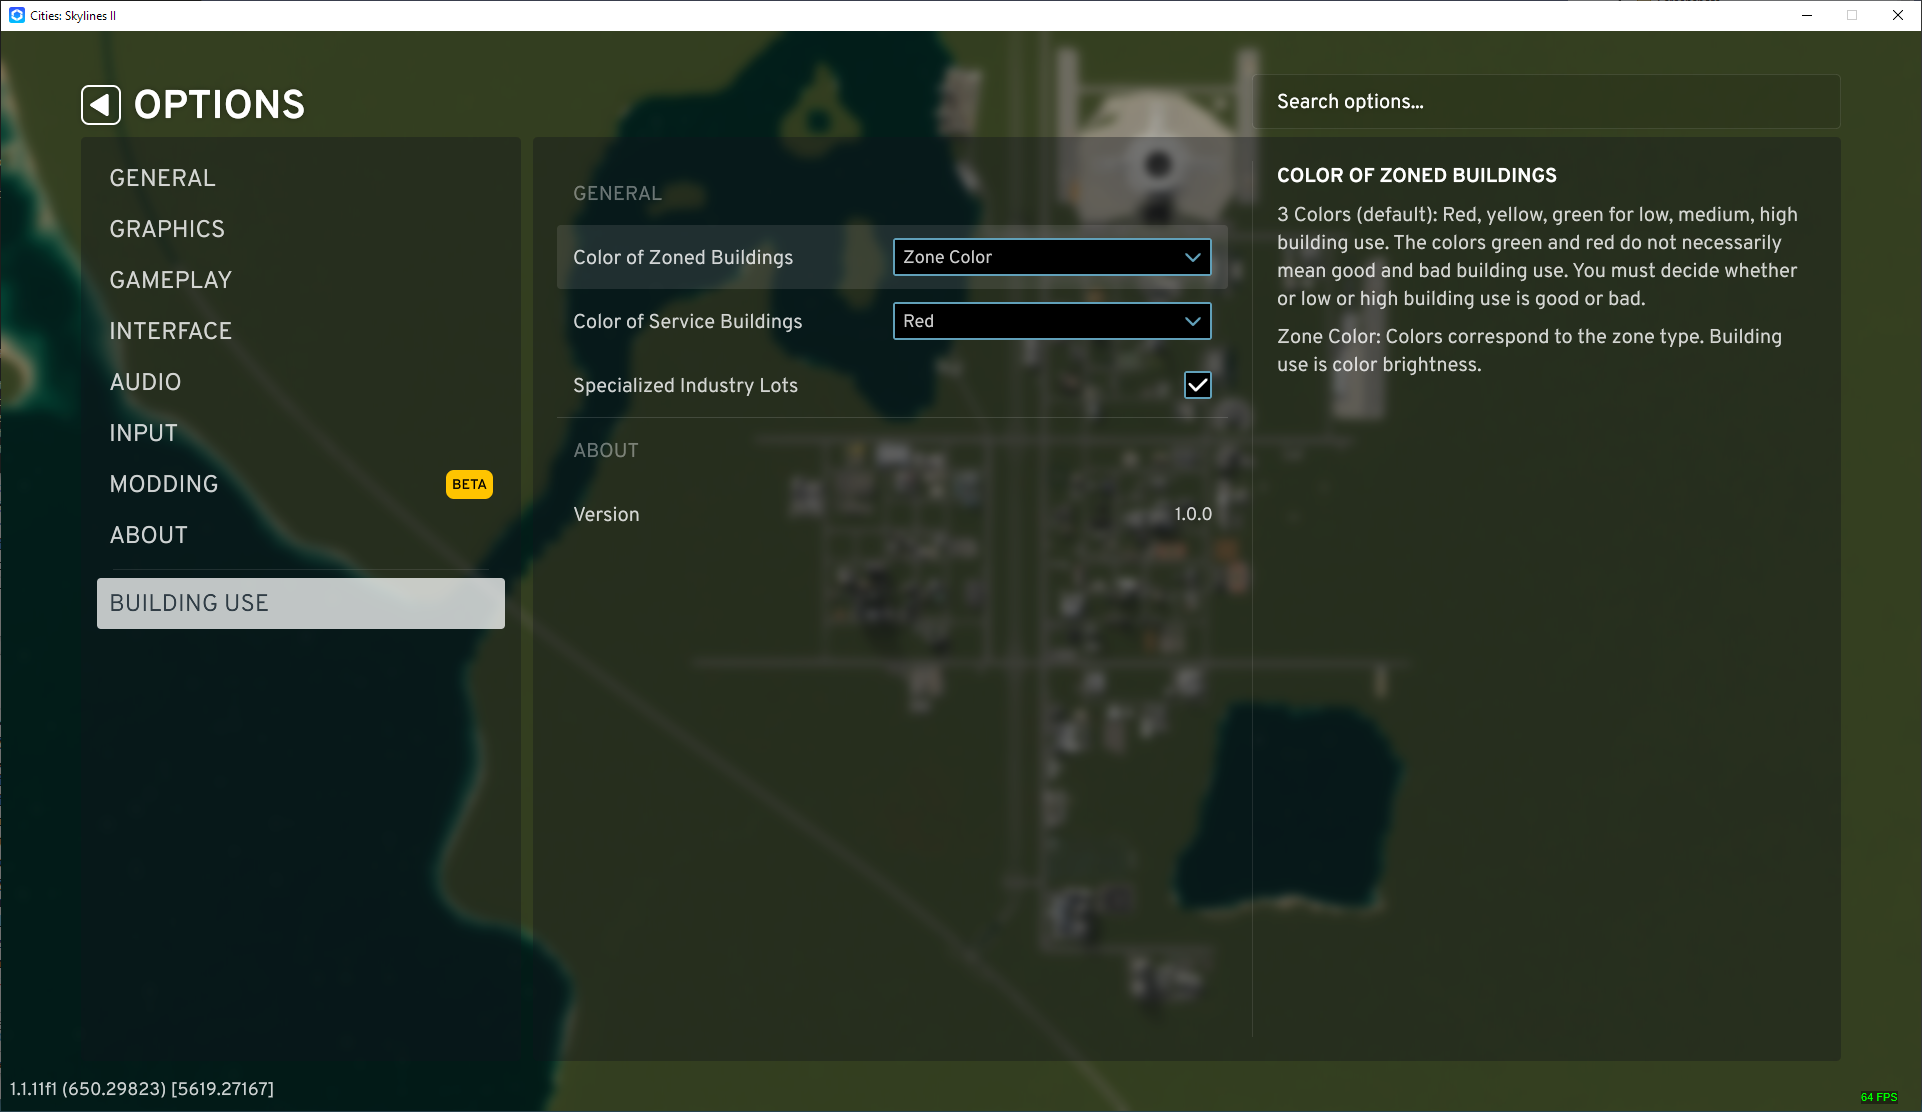
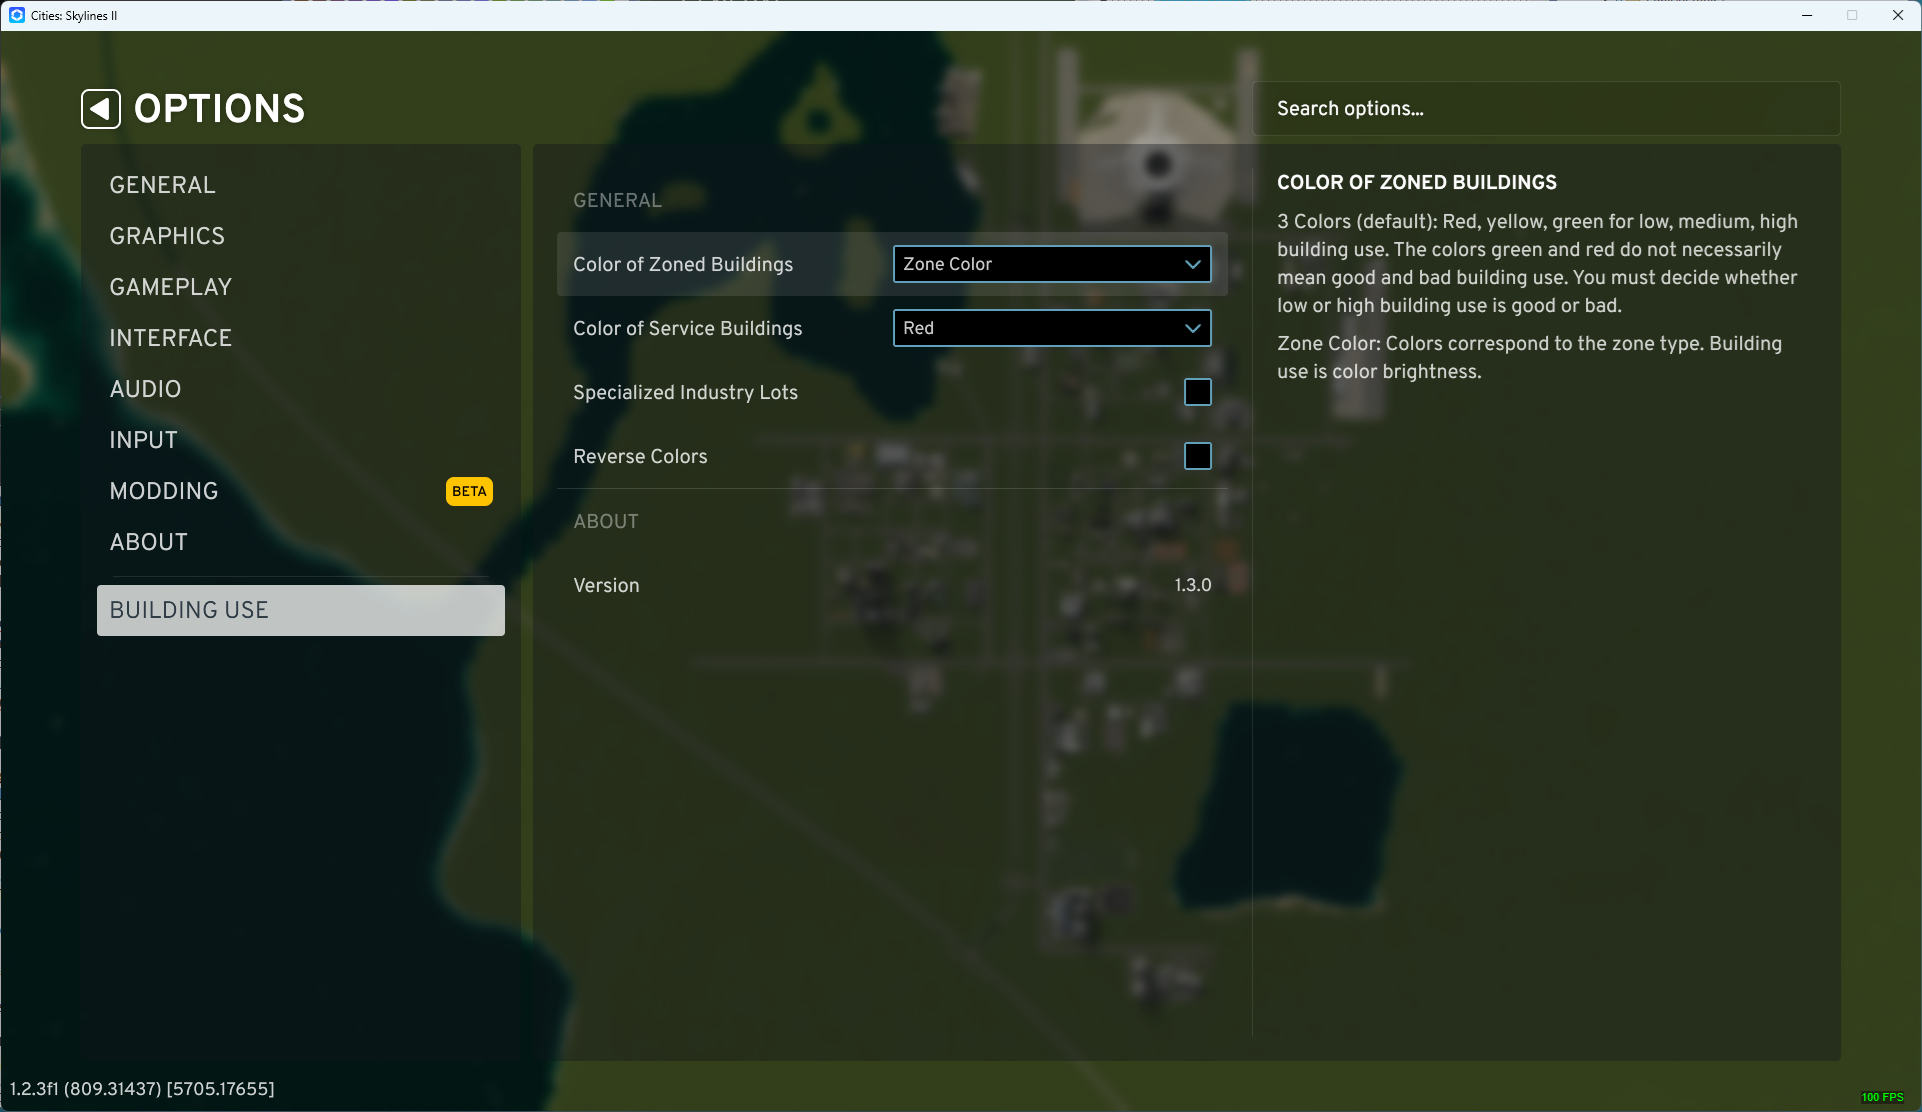
Version 1.3.0

diff --git a/CreateUIFiles.cs b/CreateUIFiles.cs
@@ -253,6 +253,9 @@ namespace BuildingUse
                     { "SettingColorSpecializedIndustryLotsLabel",       Mod.ModSettings.GetOptionLabelLocaleID(nameof(ModSettings.ColorSpecializedIndustryLots     )) },
                     { "SettingColorSpecializedIndustryLotsDesc",        Mod.ModSettings.GetOptionDescLocaleID (nameof(ModSettings.ColorSpecializedIndustryLots     )) },
                                                                                                                                                                           
+                    { "SettingReverseColorsLabel",                      Mod.ModSettings.GetOptionLabelLocaleID(nameof(ModSettings.ReverseColors                    )) },
+                    { "SettingReverseColorsDesc",                       Mod.ModSettings.GetOptionDescLocaleID (nameof(ModSettings.ReverseColors                    )) },
+                                                                                                                                                                          
                                                                                                                                                                           
                     { "SettingGroupAbout",                              Mod.ModSettings.GetOptionGroupLocaleID(ModSettings.GroupAbout)                                },
                                                                                                                                                                           

diff --git a/Localization/UITranslationKey.cs b/Localization/UITranslationKey.cs
@@ -258,6 +258,8 @@ namespace BuildingUse
         public const string SettingServiceBuildingColorChoiceVarious           = "Options.BuildingUse.BuildingUse.Mod.SERVICEBUILDINGCOLORCHOICE[Various]";
         public const string SettingColorSpecializedIndustryLotsLabel           = "Options.OPTION[BuildingUse.BuildingUse.Mod.ModSettings.ColorSpecializedIndustryLots]";
         public const string SettingColorSpecializedIndustryLotsDesc            = "Options.OPTION_DESCRIPTION[BuildingUse.BuildingUse.Mod.ModSettings.ColorSpecializedIndustryLots]";
+        public const string SettingReverseColorsLabel                          = "Options.OPTION[BuildingUse.BuildingUse.Mod.ModSettings.ReverseColors]";
+        public const string SettingReverseColorsDesc                           = "Options.OPTION_DESCRIPTION[BuildingUse.BuildingUse.Mod.ModSettings.ReverseColors]";
         public const string SettingGroupAbout                                  = "Options.GROUP[BuildingUse.BuildingUse.Mod.About]";
         public const string SettingModVersionLabel                             = "Options.OPTION[BuildingUse.BuildingUse.Mod.ModSettings.ModVersion]";
         public const string SettingModVersionDesc                              = "Options.OPTION_DESCRIPTION[BuildingUse.BuildingUse.Mod.ModSettings.ModVersion]";

diff --git a/ModSettings/ModSettings.cs b/ModSettings/ModSettings.cs
@@ -30,9 +30,10 @@ namespace BuildingUse
         public override void SetDefaults()
         {
             // It is important to set a default for every value.
-            ZonedBuildingColor = ZonedBuildingColorChoice.ThreeColors;
-            ServiceBuildingColor = ServiceBuildingColorChoice.ThreeColors;
+            ZonedBuildingColor           = ZonedBuildingColorChoice.ThreeColors;
+            ServiceBuildingColor         = ServiceBuildingColorChoice.ThreeColors;
             ColorSpecializedIndustryLots = false;
+            ReverseColors                = false;
 
             CountVehiclesInUse           = true;
             CountVehiclesInMaintenance   = true;
@@ -75,6 +76,15 @@ namespace BuildingUse
         // Color specialized industry lots.
         [SettingsUISection(GroupGeneral)]
         public bool ColorSpecializedIndustryLots { get; set; }
+
+        // Whether or not to reverse the colors.
+        private bool _reverseColors;
+        [SettingsUISection(GroupGeneral)]
+        public bool ReverseColors
+        {
+            get { return _reverseColors; }
+            set { _reverseColors = value; BUInfoviewDatas.instance.SetInfomodeColors(); ApplyAndSave(); }
+        }
 
         // Display mod version in settings.
         [SettingsUISection(GroupAbout)]

diff --git a/Data/BUInfoviewData.cs b/Data/BUInfoviewData.cs
@@ -435,6 +435,14 @@ namespace BuildingUse
                                                                       (lowColor.b + buildingStatusInfomodePrefab.m_High.b) * 0.5f,
                                                                       1f);
                 }
+
+                // Check for reverse colors.
+                if (Mod.ModSettings.ReverseColors)
+                {
+                    // Reverse low and high colors.
+                    // Medium color stays the same.
+                    (buildingStatusInfomodePrefab.m_High, buildingStatusInfomodePrefab.m_Low) = (buildingStatusInfomodePrefab.m_Low, buildingStatusInfomodePrefab.m_High);
+                }
             }
         }
 

diff --git a/Localization/Translation.cs b/Localization/Translation.cs
@@ -18,6 +18,8 @@ namespace BuildingUse
         // Translations are in the Translation.csv file.
         // The translation file is an embedded resource in the mod DLL so that a separate file does not need to be downloaded with the mod.
         // The translation file was created and maintained using LibreOffice Calc.
+        // When opening the file in Libreoffice Calc, be sure the "Format quoted field as text" option is turned on
+        // to preserve the double quotes around all text, not just around the text that needs double quotes.
 
         // Translation file format:
         //      Line 1: blank,language code 1,language code 2,...,language code n

diff --git a/Systems/BuildingColorSystem.cs b/Systems/BuildingColorSystem.cs
@@ -1523,6 +1523,10 @@ namespace BuildingUse
             // Update building status type data values.
             buildingStatusTypeDatas.UpdateDataValues(totalUsed, totalCapacity);
 
+            // Wait for the "next" job to complete, whichever job that is.
+            // This helps to reduce building flicker.
+            jobHandleNext.Complete();
+
             // This system handled building colors for one of this mod's infoviews.
             // Do not execute the original game logic.
             return false;

diff --git a/ModAssemblyInfo/ModAssemblyInfo.cs b/ModAssemblyInfo/ModAssemblyInfo.cs
@@ -10,6 +10,6 @@ namespace BuildingUse
     public class ModAssemblyInfo
     {
         public const string Name        = "BuildingUse";
-        public const string Version     = "1.2.1";
+        public const string Version     = "1.3.0";
     }
 }

diff --git a/ReadMe.md b/ReadMe.md
@@ -14,7 +14,8 @@ See the Infoviews section below for more details on each infoview.
 ### Building Colors
 The color of each building indicates the percent use for that building.
 For each building type, the gradient shows the color range for the building use.
-See the settings below for Color of Zoned Buildings and Color of Service Buildings.
+The color on the left of the gradient indicates low building use and the color on the right indicates high building use.
+See the settings below for Color of Zoned Buildings, Color of Service Buildings, and Reverse Colors.
 
 ### Districts
 If your city has districts:
@@ -121,17 +122,17 @@ The following settings are available on the Options screen.
 
 ### Color of Zoned Buildings
 There are two choices for the color of zoned buildings, including signature buildings:
-- 3 Colors (default):  Building colors are red, yellow, green for low, medium, high building use respectively.
+- 3 Colors (default):  Building colors are red, yellow, green for low, medium, high building use respectively (see Reverse Colors below).
   The colors green and red do not necessarily mean good and bad building use.
   You must decide whether low or high building use is good or bad.
 - Zone Color:  Building colors are set according to their respective zone type:
   residential = green, commercial = blue, industrial = yellow, and office = purple.
 
-For Zone Color, building use is indicated by the color brightness:  the lightest color is 0% used and the darkest color is 100% used.
+For Zone Color, building use is indicated by the color brightness:  the lightest color is 0% used and the darkest color is 100% used (see Reverse Colors below).
 
 ### Color of Service Buildings
 There are three choices for the color of service buildings:
-- 3 Colors (default):  Building colors are red, yellow, green for low, medium, high building use respectively.
+- 3 Colors (default):  Building colors are red, yellow, green for low, medium, high building use respectively (see Reverse Colors below).
   The colors green and red do not necessarily mean good and bad building use.
   You must decide whether low or high building use is good or bad.
 - Red:  All service buildings are red.
@@ -141,11 +142,15 @@ There are three choices for the color of service buildings:
   For example, Electricity and Police are the same color because their icons are the same color.
   Some building types with white/gray icons use a different arbitrary color to differentiate them from the default off-white color.
 
-For Red and Various, building use is indicated by the color brightness:  the lightest color is 0% used and the darkest color is 100% used.
+For Red and Various, building use is indicated by the color brightness:  the lightest color is 0% used and the darkest color is 100% used (see Reverse Colors below).
 
 ### Specialized Industry Lots
-- When checked, the color of the attached lot for each specialized industry is set the same as its hub building to make the building use easier to see.
 - When unchecked (default), only the hub building color is set.
+- When checked, the color of the attached lot for each specialized industry is set the same as its hub building to make the building use easier to see.
+
+### Reverse Colors
+- When unchecked (default), low to high building use is represented by lighter to darker colors (or red, yellow, green for 3 Colors).
+- When checked, low to high building use is represented by darker to lighter colors (or green, yellow, red for 3 Colors).
 
 # Compatibility
 The mod is translated into all the languages supported by the base game.

diff --git a/ChangeLog.md b/ChangeLog.md
@@ -1,1 +1,1 @@
-- Prevent an error that can crash the game in a very specific situation.
+- Add option to reverse colors.
